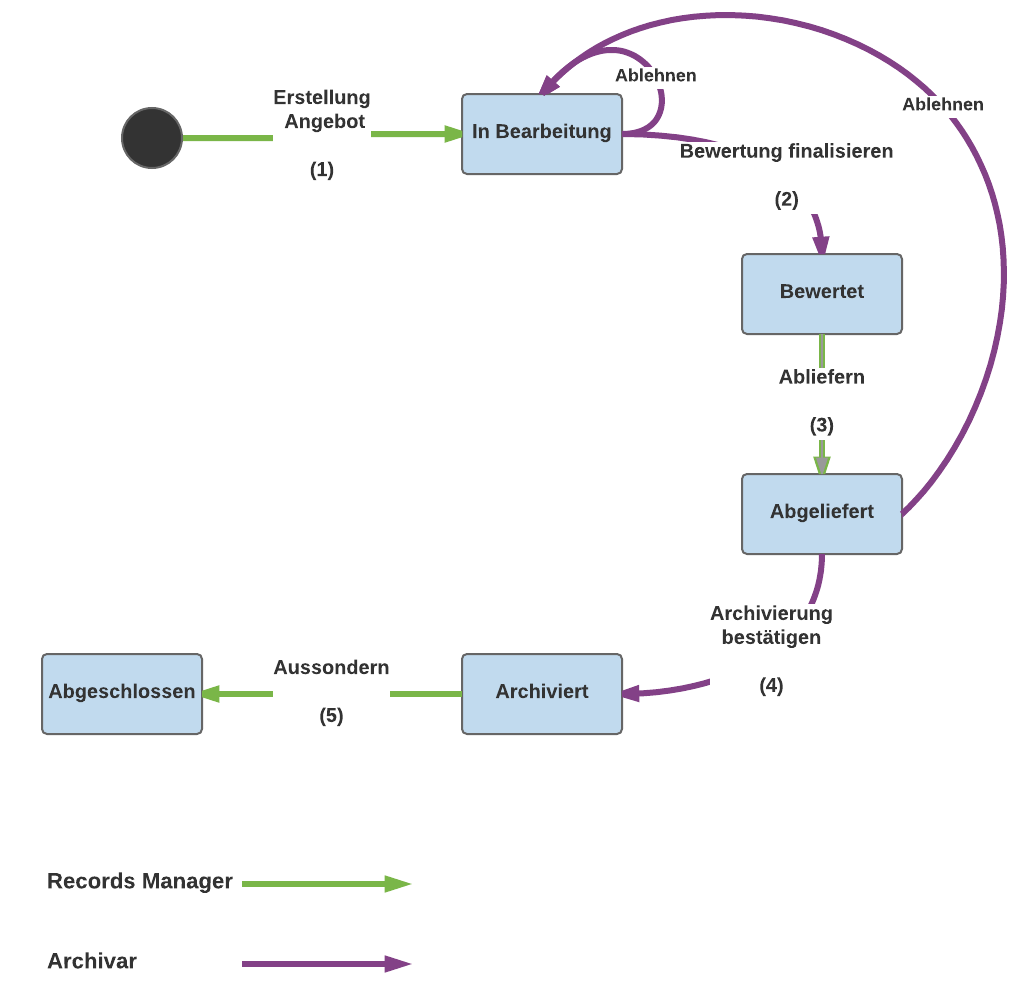
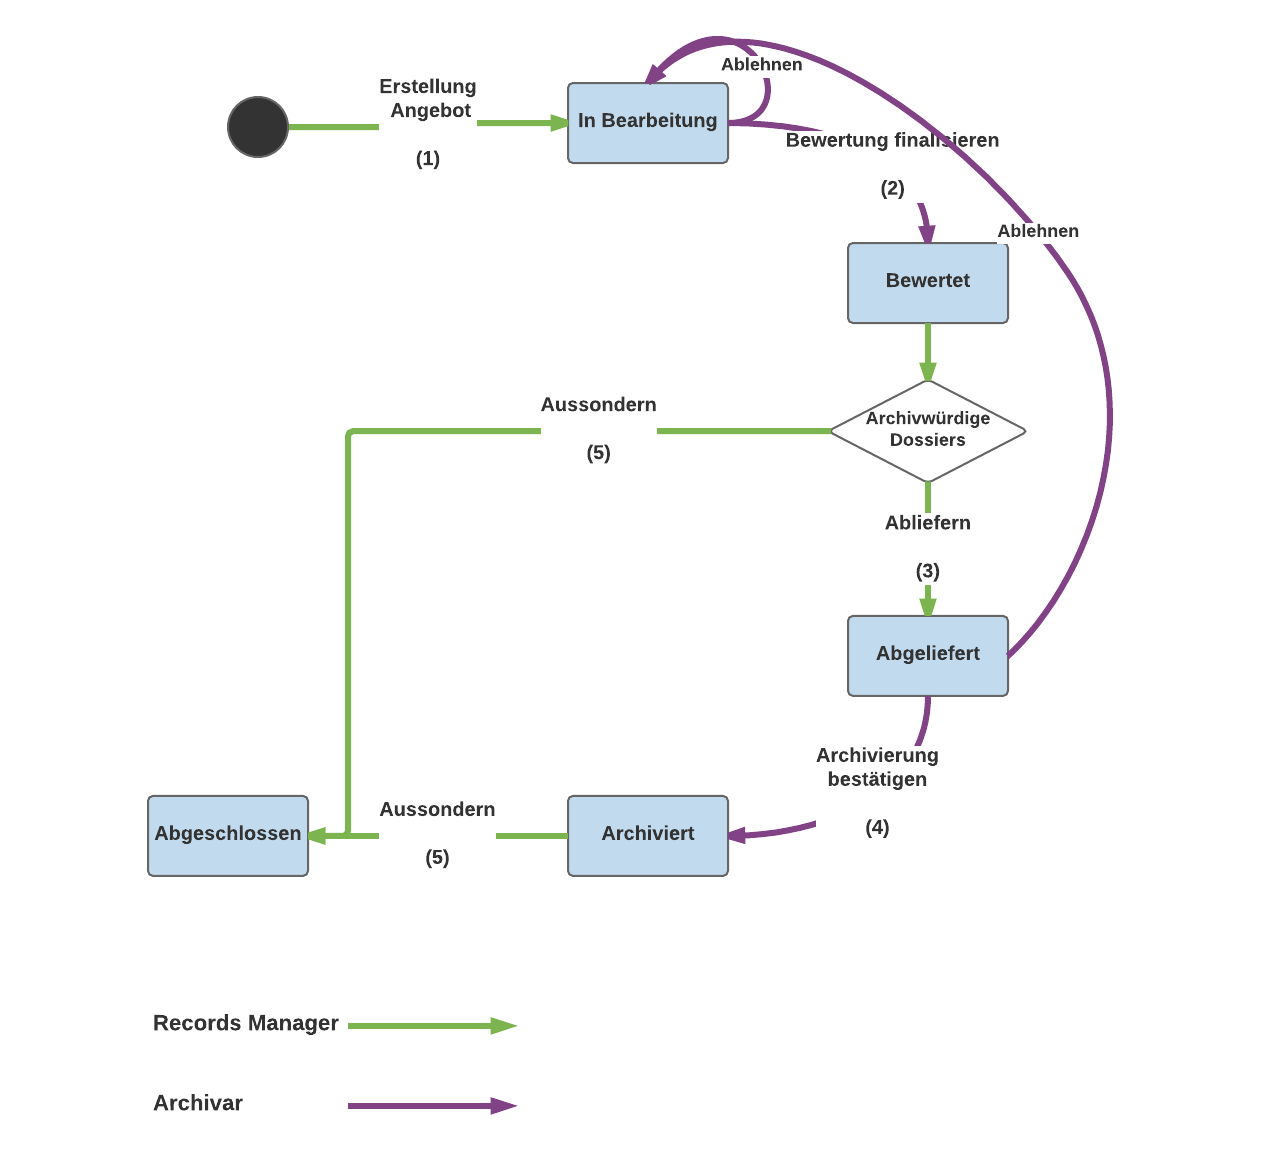
Update aussonderung documentation because of the workflow change.

diff --git a/docs/public/admin-manual/aussonderung.rst b/docs/public/admin-manual/aussonderung.rst
@@ -89,6 +89,8 @@ Aktion ``Ablieferungspaket herunterladen`` zur Verfügung, welches den eCH-0160
 Export für die enthaltenen Dossiers mit einer positiven Bewertung zum Download
 anbietet.
 
+Enthält eine Angebot nur Dossier die nicht ans Archiv abgeliefert werden müssen, so können die Schritte 3 und 4 übersprungen werden und die Dossiers direkt ausgesondert und das Angebot abgeschlossen werden.
+
 
 Archivierung bestätigen
 ~~~~~~~~~~~~~~~~~~~~~~~
